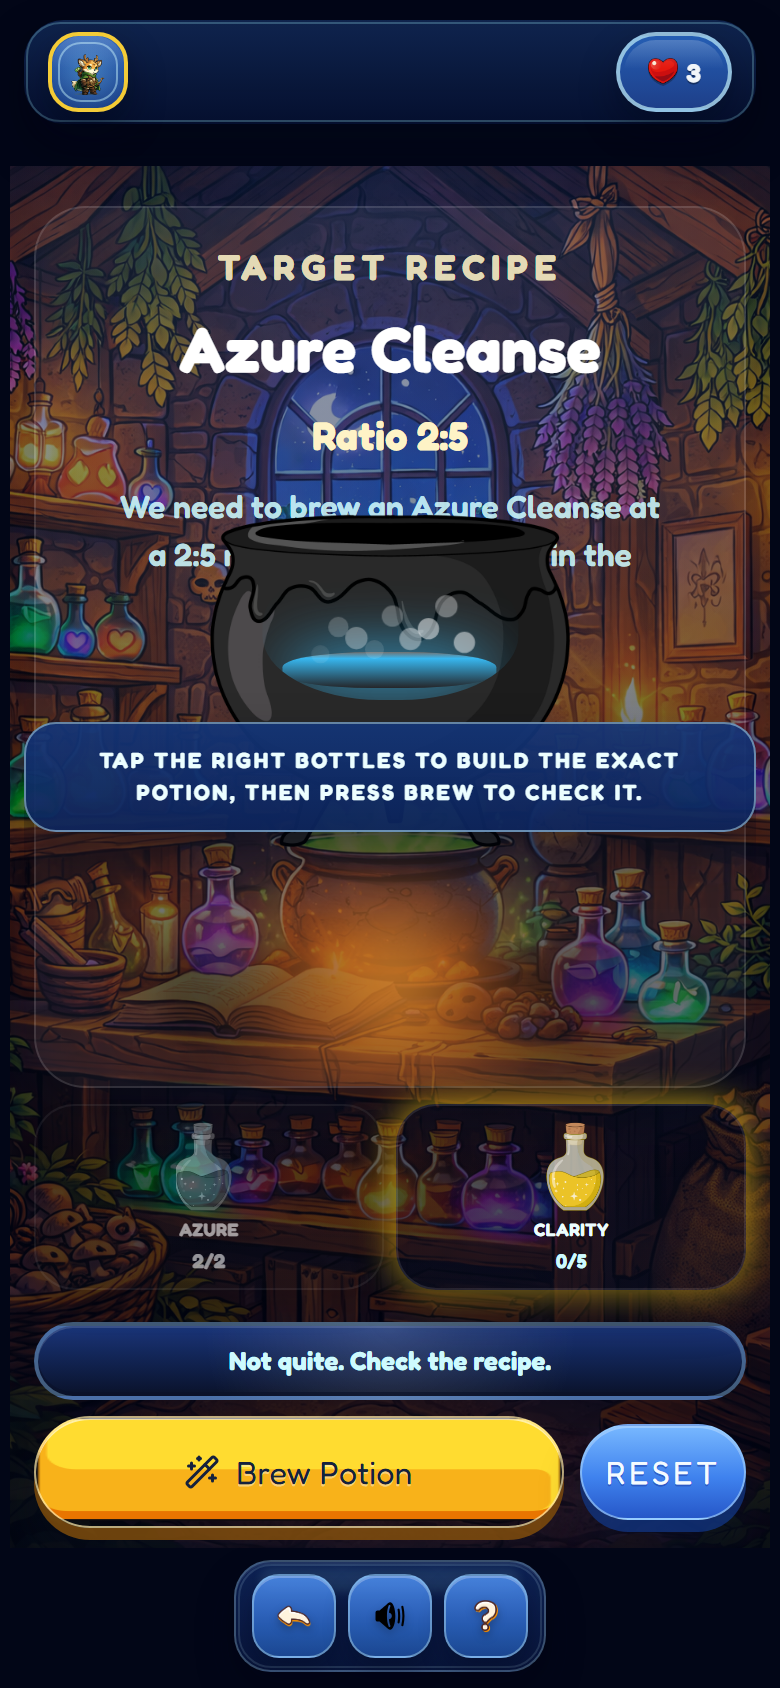
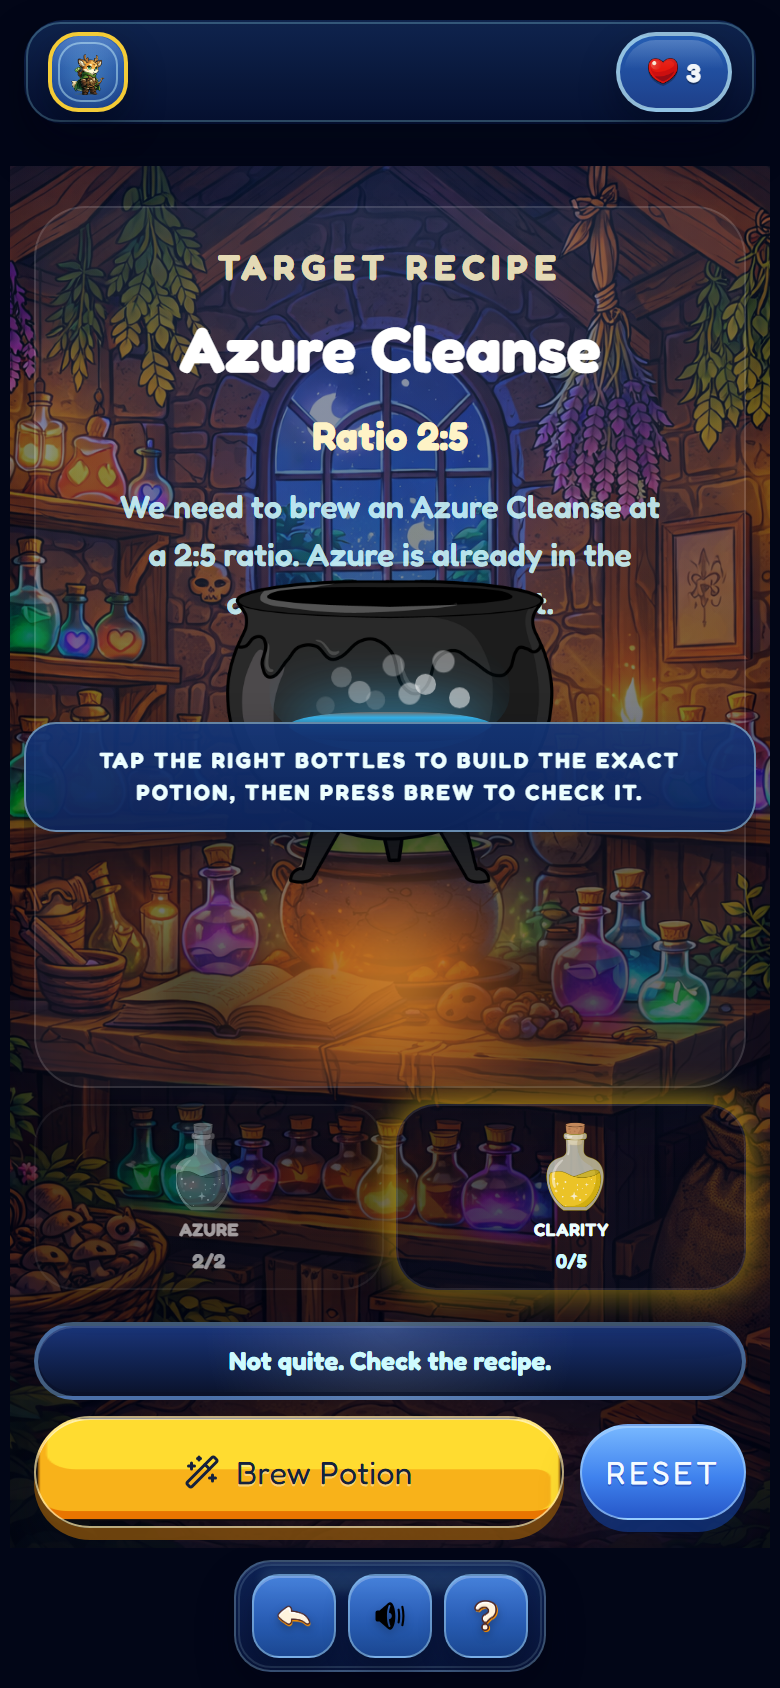
up

diff --git a/src/games/PotionPourGame.tsx b/src/games/PotionPourGame.tsx
@@ -681,9 +681,9 @@ const PotionPourGame: React.FC<PotionPanicProps> = ({
                 src={cauldrenAndPotionArt}
                 alt=""
                 aria-hidden="true"
-                className="pointer-events-none absolute left-1/2 top-[36%] h-[42%] max-w-none -translate-x-1/2 object-contain"
+                className="pointer-events-none absolute left-1/2 bottom-[6%] h-[42%] max-w-none -translate-x-1/2 object-contain"
               />
-              <div className="absolute left-1/2 top-[48%] h-[14%] w-[34%] -translate-x-1/2 overflow-hidden rounded-[46%]">
+              <div className="absolute left-1/2 bottom-[26%] h-[14%] w-[34%] -translate-x-1/2 overflow-hidden rounded-[46%]">
                 <motion.div
                   className="absolute inset-x-[8%] bottom-[8%] rounded-[42%]"
                   style={{
